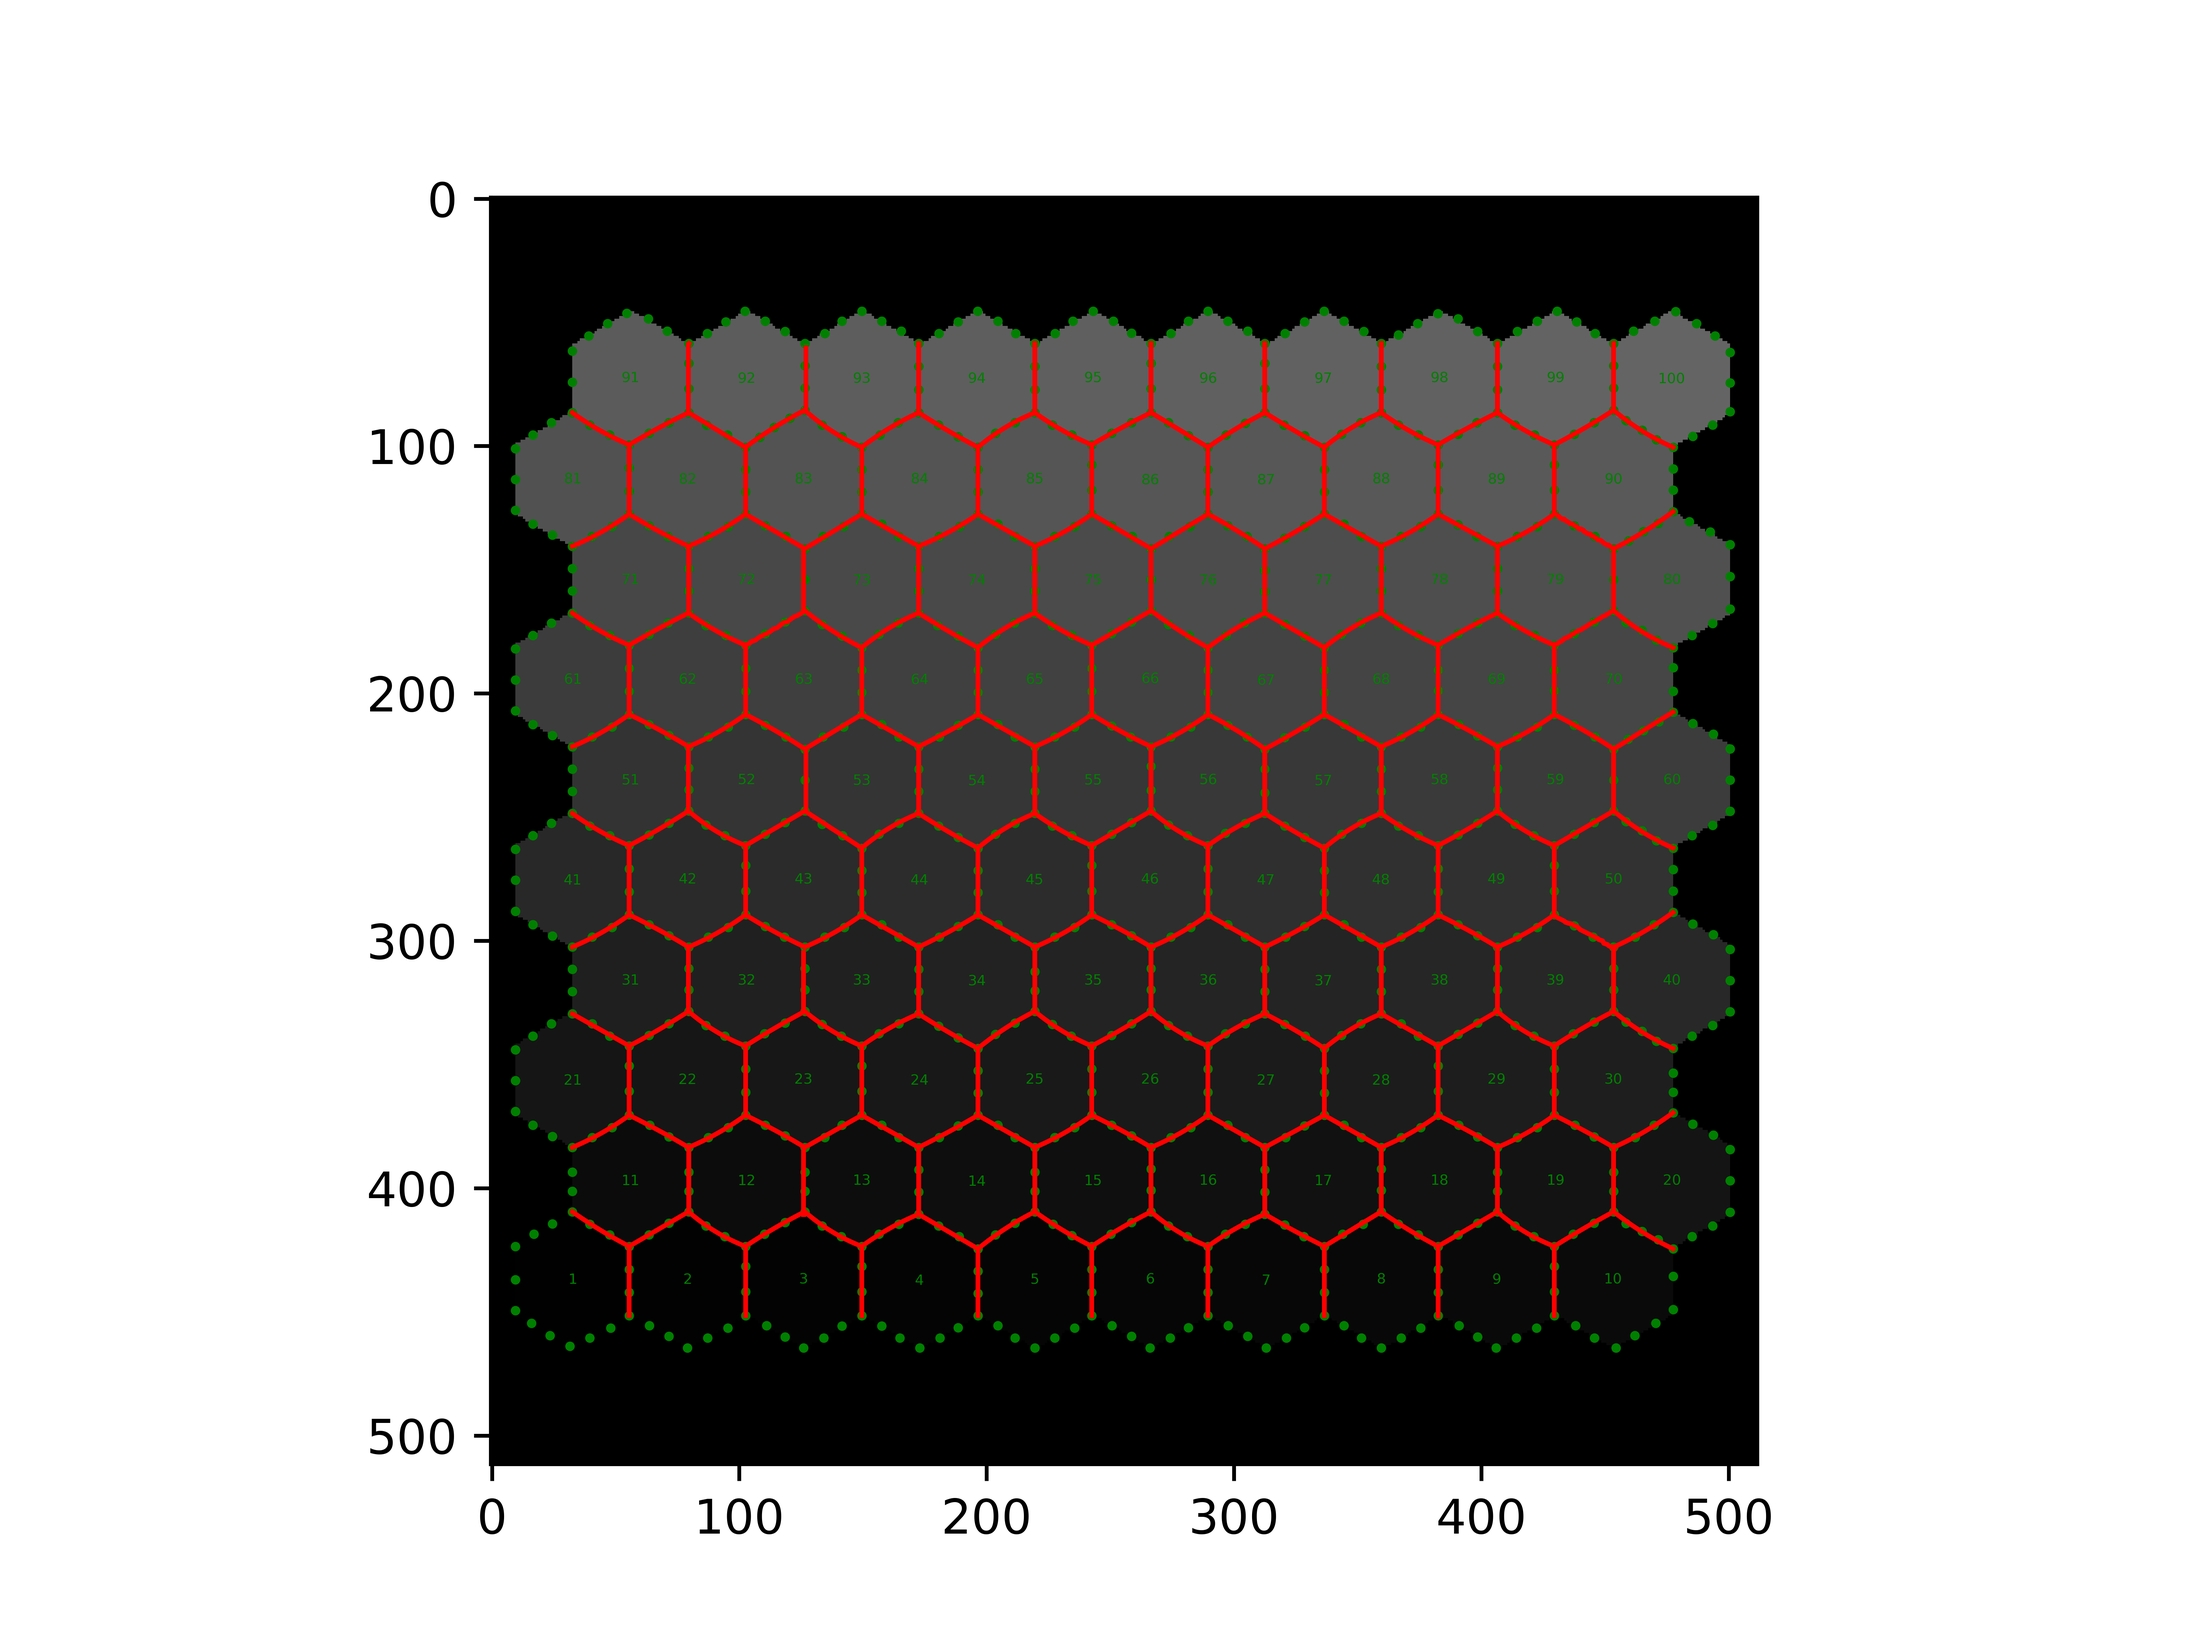
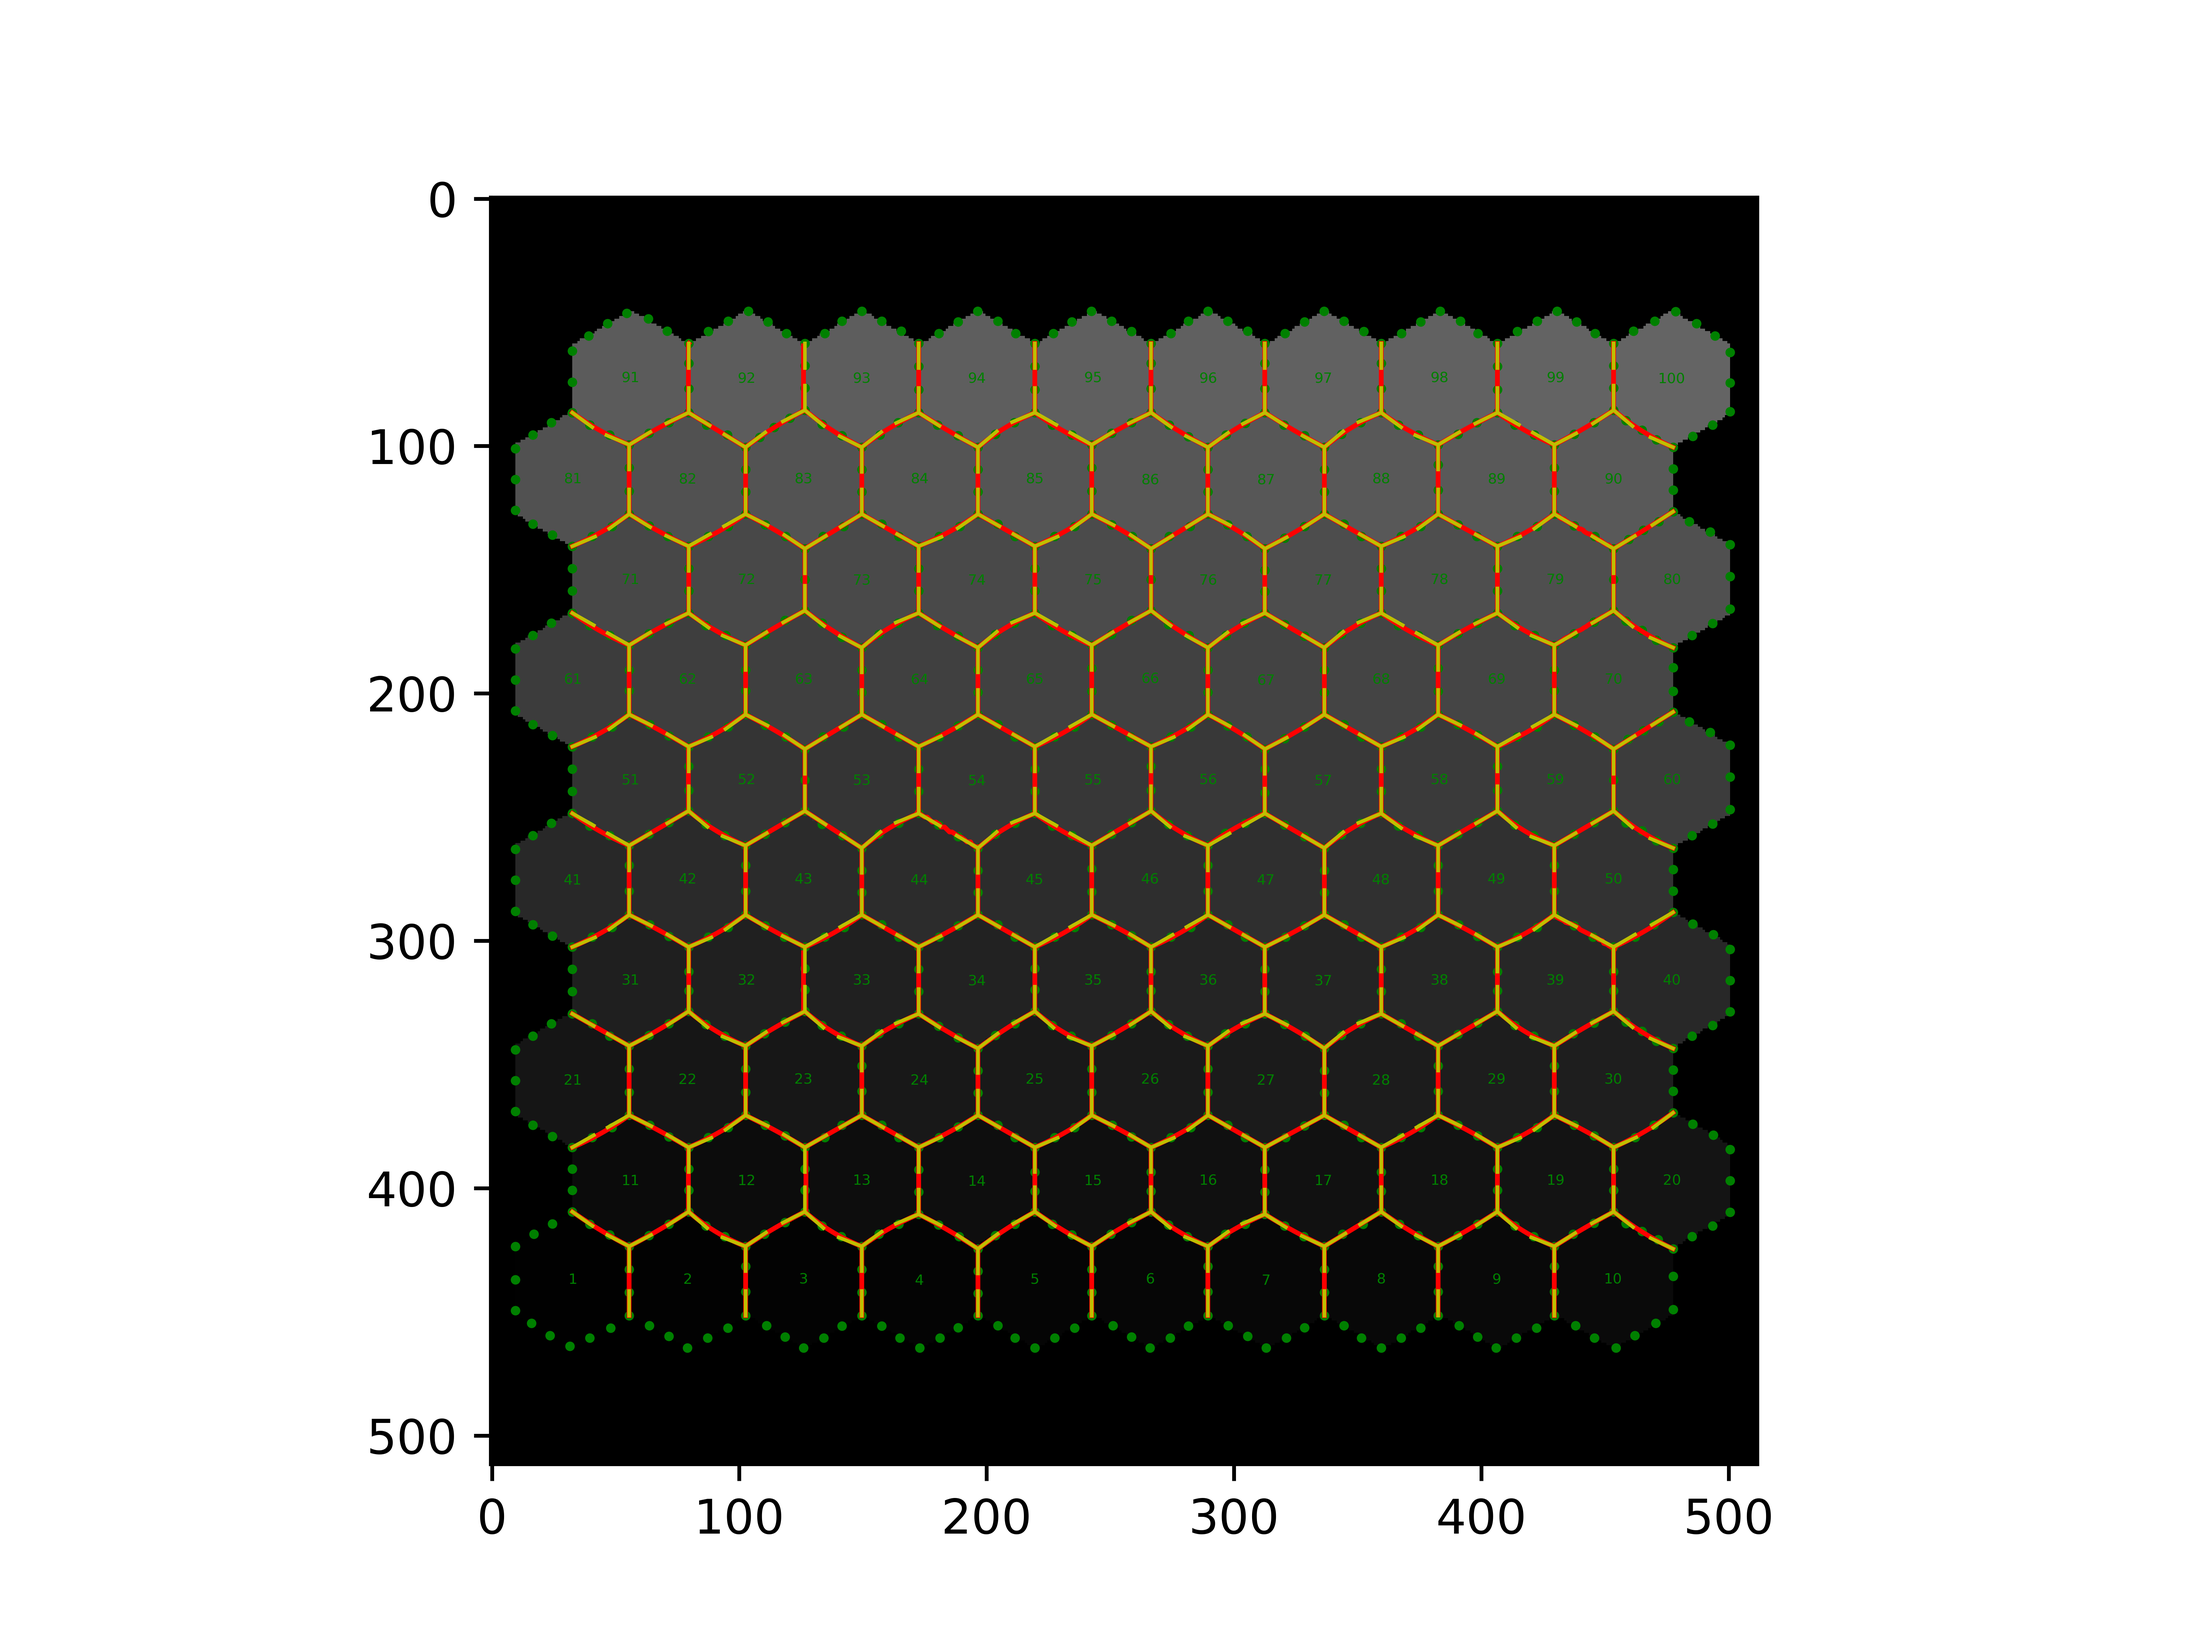
fixed tangent vector calculation and plotting (mostly)
BUG: zoom in and run multiple times: tangent vectors should change

diff --git a/pycellfit/edge.py b/pycellfit/edge.py
@@ -15,6 +15,7 @@ def distance(p1, p2):
 def collinear(points, epsilon=0.01):
     """ determine if three points are collinear
 
+    :param epsilon:
     :param points: list of 3 point tuples that might be collinear
     :type points: list of 3 2-member tuples
     :return: boolean to tell if the points are collinear or not
@@ -261,6 +262,7 @@ class Edge:
         self.center = (xc, yc)
         self.radius = radius
 
+    @property
     def linear(self):
         for index, point in enumerate(self._mesh_points):
             if index < len(self._mesh_points) - 3:
@@ -269,19 +271,122 @@ class Edge:
                     return False
         return True
 
+    def angular_position(self, coordinates):
+        """ given a (x,y) coordinate, the angular position in radians from 0 to 2*pi around the fit circle is returned
+
+        :param coordinates:
+        :return:
+        """
+        x, y = coordinates
+        angular_position = math.atan2(y - self.yc, x - self.xc)  # y,x
+        # convert to radians between 0 and 2*pi
+        if angular_position > 0:
+            angular_position = angular_position
+        else:
+            angular_position = 2 * math.pi + angular_position
+        return angular_position
+
+    @property
+    def cw_around_circle(self):
+        """true if the edge (start_node to end_node) goes clockwise around the fit circle, false if ccw
+
+        :return:
+        """
+
+        start_angular_position = self.angular_position(self.start_node.coordinates)
+        end_angular_position = self.angular_position(self.end_node.coordinates)
+        return start_angular_position > end_angular_position
+
     @property
     def start_tangent_angle(self):
-        return math.atan((-self.start_node.x + self.xc) / (self.start_node.y - self.yc))
+
+        # circular edges
+        slope_of_tangent_line = (-(self.start_node.x - self.xc)) / (self.start_node.y - self.yc)
+        start_angular_position = self.angular_position(self.start_node.coordinates)
+        angle = math.atan(slope_of_tangent_line)
+        if self.cw_around_circle:
+            if math.pi < start_angular_position < 2 * math.pi:
+                # third and fourth quadrants
+                angle += math.pi
+        else:
+            if math.pi > start_angular_position > 0:
+                # first and second quadrants
+                angle += math.pi
+
+        # linear edges
+        if self.linear:
+            if self.end_node.x > self.start_node.x:
+                angle = math.atan2(-self.start_node.y + self.end_node.y, -self.start_node.x + self.end_node.x)
+            elif self.end_node.x == self.start_node.x:
+                if self.end_node.y - self.start_node.y > 0:
+                    angle = math.pi / 2
+                else:
+                    angle = 3 * math.pi / 2
+            elif self.end_node.x < self.start_node.x:
+                if self.end_node.y > self.start_node.y:
+                    angle = math.pi / 2 + math.atan(
+                        (self.start_node.x - self.end_node.x) / (-self.start_node.y + self.end_node.y))
+                else:
+                    angle = math.pi + math.atan(
+                        (self.start_node.y - self.end_node.y) / (self.start_node.x - self.end_node.x))
+
+        # convert to range of 0 to 2pi
+        if angle < 0:
+            angle += 2 * math.pi
+        return angle
 
     @property
     def end_tangent_angle(self):
-        return math.atan((-self.end_node.x + self.xc) / (self.end_node.y - self.yc))
+        slope_of_tangent_line = (-(self.end_node.x - self.xc)) / (self.end_node.y - self.yc)
+        end_angular_position = self.angular_position(self.end_node.coordinates)
+        angle = math.atan(slope_of_tangent_line)
+        if self.cw_around_circle:
+            if math.pi < end_angular_position < 2 * math.pi:
+                # third and fourth quadrants
+                angle += math.pi
+        else:
+            if math.pi > end_angular_position > 0:
+                # first and second quadrants
+                angle += math.pi
+
+        # convert to range of 0 to 2pi
+        if angle < 0:
+            angle += 2 * math.pi
+        angle -= math.pi
+
+        # linear edges
+        if self.linear:
+            if self.start_node.x > self.end_node.x:
+                angle = math.atan2(-self.end_node.y + self.start_node.y, -self.end_node.x + self.start_node.x)
+            elif self.start_node.x == self.end_node.x:
+                if self.start_node.y - self.end_node.y > 0:
+                    angle = math.pi / 2
+                else:
+                    angle = 3 * math.pi / 2
+            elif self.start_node.x < self.end_node.x:
+                if self.start_node.y > self.end_node.y:
+                    angle = math.pi / 2 + math.atan(
+                        (self.end_node.x - self.start_node.x) / (-self.end_node.y + self.start_node.y))
+                else:
+                    angle = math.pi + math.atan(
+                        (self.end_node.y - self.start_node.y) / (self.end_node.x - self.start_node.x))
+
+        # convert to range of 0 to 2pi
+        if angle < 0:
+            angle += 2 * math.pi
+
+        return angle
 
     def plot_tangent(self):
         angle = self.start_tangent_angle
+
         plt.plot([self.start_node.x, self.start_node.x + 10 * math.cos(angle)], [self.start_node.y,
                                                                                  self.start_node.y + 10 * math.sin(
                                                                                      angle)], 'y-', lw=0.75)
+        angle = self.end_tangent_angle
+        plt.plot([self.end_node.x, self.end_node.x + 10 * math.cos(angle)], [self.end_node.y,
+                                                                             self.end_node.y + 10 * math.sin(
+                                                                                 angle)], 'y-', lw=0.75)
 
     def plot_circle(self):
         xc, yc = self._center

diff --git a/tutorials/intro/quickstart.py b/tutorials/intro/quickstart.py
@@ -48,15 +48,23 @@ def main():
     #     if not edge.outside:
     #         edge.plot(label=True)
 
-    # show cells
+    # show cell labels
     for cell in hex_mesh.cells:
         cell.plot()
+
+    # show mesh
     hex_mesh.plot()
+
+    # show circle fits
     for edge in hex_mesh.edges:
         if not edge.outside(hex_mesh.background_label):
-            print(edge.start_tangent_angle, edge.end_tangent_angle)
             edge.plot_circle()
-            #edge.plot_tangent()
+
+    # show tangent vectors
+    for edge in hex_mesh.edges:
+        if not edge.outside(hex_mesh.background_label):
+            edge.plot_tangent()
+
     plt.savefig('fig.png', dpi=1000)
     # plt.show()
 
